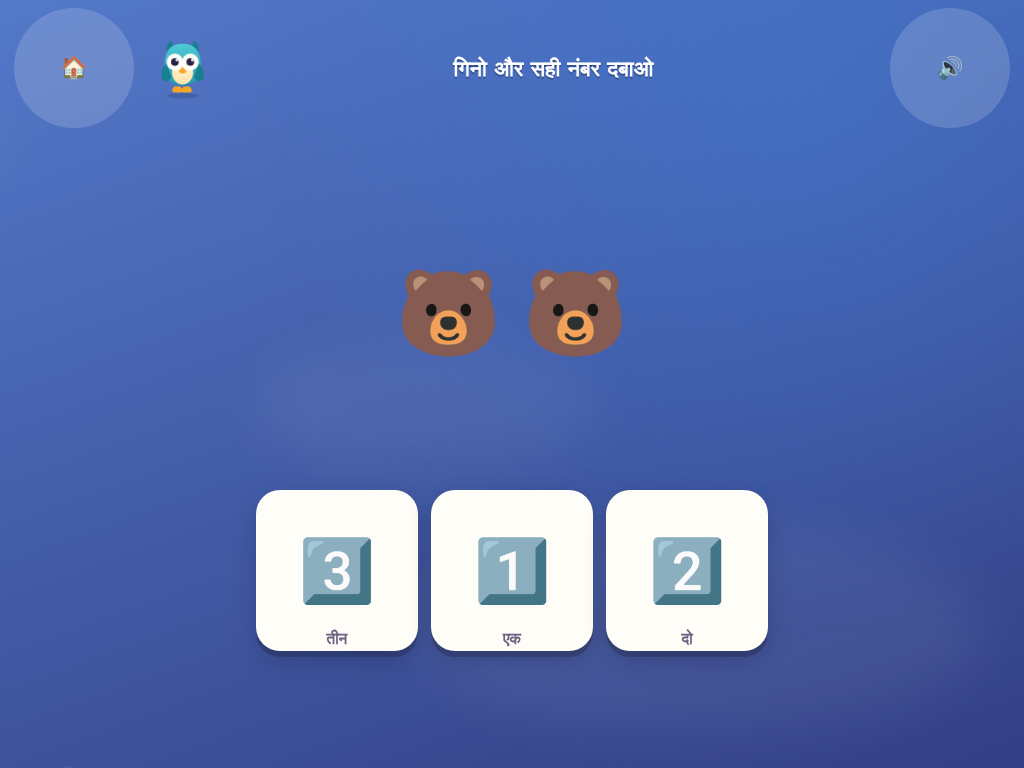
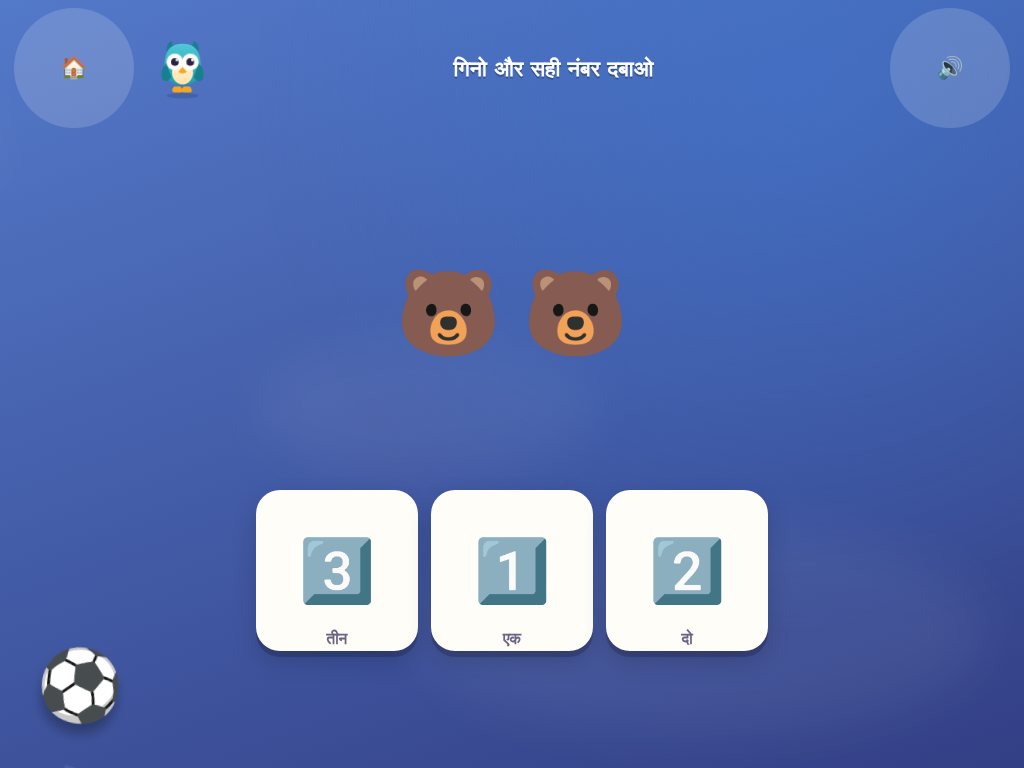
Gullu talks while the tablet speaks, and plays football
audio.js now announces when speech starts and stops — counted, not
flagged, since a prompt and a praise line can overlap — and the
mascot subscribes: beak moving and a small nod for exactly as long
as the tablet is talking, layered over whatever mood he is in. A
safety timeout ends it even on engines that never fire onend, so
a beak can never be left flapping at nothing.

A football sits in the empty part of the play field. It is a toy,
not a control of the puzzle: a kick is never counted as a mistake
(verified: mistakes stay at zero), Gullu cheers when the child
kicks it, and after the ball sits untouched for a while it bounces
as though he kicked it and he hops. It measures the field and takes
the first corner that overlaps nothing, or hides itself when every
corner is taken — better absent than on top of a card. Checked on
the twelve busiest layouts: zero overlap everywhere it shows, and
hidden on the twelve-card memory board and spot-the-difference.

Claude-Session: https://claude.ai/code/session_012WrVrUWsRAkZV34aQr8EfW

Changed region(s): [[0.0312, 0.8438, 0.125, 0.9688]]

diff --git a/js/core/toy.js b/js/core/toy.js
@@ -1,0 +1,104 @@
+/* ============================================================
+   toy.js — a football in the empty part of the screen.
+
+   Not part of any puzzle: tapping it just kicks it, and that is
+   never counted as a mistake. It lives only where there is genuinely
+   room — it measures the play field and hides itself if every corner
+   is taken — so it can never sit on top of a card or a button.
+
+   Gullu plays too. Every so often, if the child leaves the ball
+   alone, it bounces as though he kicked it and he hops with delight;
+   and when the child kicks it, he cheers. A game the two of them
+   share in the margins, while the real puzzle waits in the middle.
+   ============================================================ */
+
+import { el } from './ui.js';
+import { sfx } from './audio.js';
+import { getSetting } from './state.js';
+
+/** Things the ball must never overlap. */
+const OCCUPIED = '.tile, .btn, .bin, .slot, .count-item, canvas, .grid, .answer-row, .count-strip, .big-emoji';
+
+/**
+ * Put a football in the field.
+ *
+ *   field   the engine's play field (position: relative)
+ *   after   the engine's cancellable timer, so nothing outlives the level
+ *   onKick  called whenever the ball is kicked, by child or by Gullu
+ *
+ * Returns a teardown.
+ */
+export function createFootball({ field, after, onKick }) {
+  const ball = el('button.toy-ball', {
+    type: 'button',
+    'aria-label': 'football',
+    onclick: () => kick(true),
+  }, '⚽');
+  field.appendChild(ball);
+
+  let kicking = false;
+  let quietTimer = null;
+
+  function kick(byChild) {
+    if (kicking || ball.hidden) return;
+    kicking = true;
+    ball.classList.remove('toy-ball--kick');
+    void ball.offsetWidth;                    // restart the animation
+    ball.classList.add('toy-ball--kick');
+    sfx('kick');
+    onKick?.(byChild);
+    after(950, () => { ball.classList.remove('toy-ball--kick'); kicking = false; });
+    scheduleGullu();
+  }
+
+  /* Gullu's turn: a kick of his own after the ball sits untouched. */
+  function scheduleGullu() {
+    clearTimeout(quietTimer);
+    if (!getSetting('motion')) return;
+    quietTimer = after(9000 + Math.random() * 5000, () => kick(false));
+  }
+
+  /* ---------- placement: only where nothing else is ---------- */
+
+  function overlapsAnything(r) {
+    for (const n of field.querySelectorAll(OCCUPIED)) {
+      if (n === ball) continue;
+      const b = n.getBoundingClientRect();
+      if (b.width === 0 && b.height === 0) continue;
+      const ox = Math.min(r.right, b.right) - Math.max(r.left, b.left);
+      const oy = Math.min(r.bottom, b.bottom) - Math.max(r.top, b.top);
+      if (ox > 4 && oy > 4) return true;
+    }
+    return false;
+  }
+
+  const CORNERS = [
+    { left: '2%',  bottom: '2%' },
+    { right: '2%', bottom: '2%' },
+    { right: '2%', top: '2%' },
+    { left: '2%',  top: '2%' },
+  ];
+
+  function place() {
+    for (const c of CORNERS) {
+      ball.hidden = false;
+      ball.style.left = ball.style.right = ball.style.top = ball.style.bottom = '';
+      Object.assign(ball.style, c);
+      const r = ball.getBoundingClientRect();
+      const inside = r.left >= 0 && r.top >= 0 && r.right <= innerWidth && r.bottom <= innerHeight;
+      if (inside && !overlapsAnything(r)) return;
+    }
+    ball.hidden = true;                       // no room: better absent than in the way
+  }
+
+  const ro = new ResizeObserver(() => place());
+  ro.observe(field);
+  requestAnimationFrame(place);
+  scheduleGullu();
+
+  return () => {
+    ro.disconnect();
+    clearTimeout(quietTimer);
+    ball.remove();
+  };
+}

diff --git a/js/core/audio.js b/js/core/audio.js
@@ -145,6 +145,10 @@ const SFX = {
   /** Counting cadence — pitch rises with each item counted. */
   count:    (i = 0) => note(hz(67 + Math.min(i, 10)), 0, 0.12, { type: 'triangle', gain: 0.32 }),
 
+  /** Kicking the football: a short thump with a little air in it. */
+  kick:     () => { note(hz(50), 0, 0.16, { type: 'sine', gain: 0.5, glideTo: hz(38) });
+                    noise(0, 0.12, { freq: 380, q: 0.9, gain: 0.22 }); },
+
   /** Unlocking a new world. */
   unlock:   () => { [67, 72, 76, 79, 84].forEach((n, i) =>
                       note(hz(n), i * 0.08, 0.4, { type: 'sine', gain: 0.34 })); },
@@ -182,8 +186,38 @@ function pickVoice() {
       || null;
 }
 
+/* ------------------------------------------------------------
+   Who is listening for speech
+
+   The mascot needs to move its beak while the tablet is talking,
+   but audio.js has no business knowing about a mascot. So it just
+   announces when speech starts and stops, and whoever cares
+   subscribes. Counted rather than a flag, because a prompt and a
+   praise line can overlap.
+   ------------------------------------------------------------ */
+
+const speechListeners = new Set();
+let speaking = 0;
+
+/** Subscribe to speech starting/stopping. Returns an unsubscribe. */
+export function onSpeaking(fn) {
+  speechListeners.add(fn);
+  fn(speaking > 0);
+  return () => speechListeners.delete(fn);
+}
+
+function announce() {
+  const on = speaking > 0;
+  speechListeners.forEach((fn) => { try { fn(on); } catch { /* never fatal */ } });
+}
+
+function speechStarted() { speaking++; announce(); }
+function speechEnded() { speaking = Math.max(0, speaking - 1); announce(); }
+
 function stopSpeech() {
   try { window.speechSynthesis?.cancel(); } catch { /* ignore */ }
+  speaking = 0;
+  announce();
 }
 
 /**
@@ -197,6 +231,8 @@ export function speak(text, { rate, pitch, interrupt = true } = {}) {
     try {
       if (interrupt) stopSpeech();
       const u = new SpeechSynthesisUtterance(String(text));
+      let done = false;
+      const finish = () => { if (done) return; done = true; speechEnded(); resolve(); };
       const v = pickVoice();
       if (v) u.voice = v;
       u.lang = speechLocale();
@@ -205,11 +241,13 @@ export function speak(text, { rate, pitch, interrupt = true } = {}) {
       u.rate = rate ?? (getLang() === 'hi' ? 0.82 : 0.88);
       u.pitch = pitch ?? 1.15;
       u.volume = 1;
-      u.onend = () => resolve();
-      u.onerror = () => resolve();
+      u.onstart = () => speechStarted();
+      u.onend = finish;
+      u.onerror = finish;
       window.speechSynthesis.speak(u);
-      // Safety net: some engines never fire onend for short strings.
-      setTimeout(resolve, 1200 + String(text).length * 90);
+      // Safety net: some engines never fire onend for short strings, and
+      // a beak left flapping forever would be worse than none at all.
+      setTimeout(finish, 1200 + String(text).length * 90);
     } catch {
       resolve();
     }

diff --git a/js/core/engine.js b/js/core/engine.js
@@ -17,7 +17,8 @@ import { el, gameBar, rewardOverlay, confetti, flashOk, flashOops,
          showHint, clearAllHints, delay } from './ui.js';
 import { t, randomPraise, randomOops } from './i18n.js';
 import { createScene } from './scene.js';
-import { createMascot, setMood, flashMood } from './mascot.js';
+import { createMascot, setMood, flashMood, bindSpeech } from './mascot.js';
+import { createFootball } from './toy.js';
 import { speak, sfx, say } from './audio.js';
 import { noteStruggle, struggleFor, getSetting } from './state.js';
 
@@ -73,6 +74,7 @@ export class GameEngine {
     this.root.prepend(createScene(this.level.worldId));
     this.mascot = createMascot();
     this.mascot.classList.add('mascot--bar');
+    this.cleanup(bindSpeech(this.mascot));
 
     host.appendChild(this.root);
 
@@ -91,6 +93,14 @@ export class GameEngine {
     // Next to the prompt he is reacting to, and clear of the field.
     chrome.bar.insertBefore(this.mascot, chrome.bar.children[1]);
     this.root.prepend(chrome.bar);
+
+    // A football for the empty part of the screen, which Gullu plays
+    // with too. It places itself only where nothing else is.
+    this.cleanup(createFootball({
+      field: this.field,
+      after: (ms, fn) => this.after(ms, fn),
+      onKick: () => { if (!this.solved) this.cheerUp('happy', 1100); },
+    }));
 
     // Let the field paint before the voice starts, so the child is
     // looking at the puzzle while it is described.

diff --git a/css/games.css b/css/games.css
@@ -260,3 +260,39 @@
 .count-item--static:active { transform: none; }
 .answer-row  { display: flex; gap: var(--gap); flex-wrap: wrap; justify-content: center; }
 .big-emoji   { font-size: clamp(52px, 12vmin, 130px); line-height: 1; }
+
+/* ---------- the football ----------
+   A toy, not a control of the puzzle. It is still a thing a child
+   taps, so it meets the same touch floor as everything else. */
+.toy-ball {
+  position: absolute;
+  z-index: 2;
+  width: var(--touch);
+  height: var(--touch);
+  display: grid;
+  place-items: center;
+  padding: 0;
+  border: none;
+  background: transparent;
+  font: inherit;
+  font-size: clamp(56px, 9vmin, 84px);
+  line-height: 1;
+  cursor: pointer;
+  touch-action: manipulation;
+  filter: drop-shadow(0 10px 6px rgba(0,0,0,.28));
+  animation: ball-idle 2.8s ease-in-out infinite;
+}
+.toy-ball[hidden] { display: none; }
+.toy-ball--kick { animation: ball-kick .95s cubic-bezier(.3, 1.35, .6, 1); }
+
+@keyframes ball-idle { 50% { transform: translateY(-9px) rotate(7deg); } }
+@keyframes ball-kick {
+  0%   { transform: translateY(0) rotate(0); }
+  32%  { transform: translateY(-140px) rotate(210deg) scale(1.08); }
+  68%  { transform: translateY(-18px) rotate(340deg); }
+  82%  { transform: translateY(-42px) rotate(360deg); }
+  100% { transform: translateY(0) rotate(360deg); }
+}
+
+@media (prefers-reduced-motion: reduce) { .toy-ball { animation: none; } }
+body.no-motion .toy-ball { animation: none; }

diff --git a/css/mascot.css b/css/mascot.css
@@ -98,6 +98,22 @@
 @keyframes m-tilt       { 25% { transform: rotate(9deg); } 75% { transform: rotate(-9deg); } }
 @keyframes m-blink-slow { 50% { transform: scaleY(.3); } }
 
+/* ---------------- talking: layered over any mood ----------------
+   Runs only while the tablet is actually speaking, driven by the
+   speech events audio.js announces, so the beak never flaps at
+   nothing. */
+
+.mascot .m-beak { transform-box: fill-box; transform-origin: 50% 0; }
+
+.mascot--talking .m-beak { animation: m-talk .19s ease-in-out infinite alternate; }
+.mascot--talking .m-body { animation: m-nod 1.1s ease-in-out infinite; }
+/* The nod must not fight a mood that already moves the body. */
+.mascot--talking.mascot--think .m-body,
+.mascot--talking.mascot--oops  .m-body { animation: none; }
+
+@keyframes m-talk { from { transform: scaleY(.55); } to { transform: scaleY(1.35) translateY(2px); } }
+@keyframes m-nod  { 50% { transform: translateY(2px) rotate(2deg); } }
+
 /* ---------------- placement ---------------- */
 
 /* In a level the mascot rides in the top bar rather than floating

diff --git a/js/screens/hub.js b/js/screens/hub.js
@@ -13,11 +13,13 @@ import { totalStars, completedCount } from '../core/state.js';
 import { TOTAL_LEVELS } from '../core/catalog.js';
 import { speak } from '../core/audio.js';
 import { createScene } from '../core/scene.js';
-import { createMascot, setMood } from '../core/mascot.js';
+import { createMascot, setMood, bindSpeech } from '../core/mascot.js';
 
 export function hubScreen({ go }) {
   const gullu = createMascot({ size: 150 });
   gullu.classList.add('hub__mascot');
+  // Unsubscribed when the screen is replaced — hub screens are short-lived.
+  const unbind = bindSpeech(gullu);
 
   const screen = el('div.screen.hub.screen--scened', {},
     createScene(),
@@ -40,5 +42,6 @@ export function hubScreen({ go }) {
     setTimeout(() => setMood(gullu, 'idle'), 1800);
     speak(`${t('app.title')}. ${t('app.play')}!`);
   }, 500);
+  screen.addEventListener('DOMNodeRemoved', () => unbind(), { once: true });
   return screen;
 }

diff --git a/js/core/mascot.js b/js/core/mascot.js
@@ -15,6 +15,8 @@
                 because the game never tells a child they failed
    ============================================================ */
 
+import { onSpeaking } from './audio.js';
+
 const MOODS = ['idle', 'think', 'happy', 'cheer', 'oops'];
 
 /**
@@ -109,4 +111,14 @@ export function flashMood(svg, mood, ms = 1400) {
   setMood(svg, mood);
   const id = setTimeout(() => setMood(svg, 'idle'), ms);
   return () => clearTimeout(id);
+}
+
+/**
+ * Make the owl talk whenever the tablet is speaking: beak moving,
+ * a little nod. Layers over the current mood rather than replacing
+ * it, so a happy Gullu praising a child is still visibly happy.
+ * Returns an unsubscribe for the screen's teardown.
+ */
+export function bindSpeech(svg) {
+  return onSpeaking((on) => svg?.classList.toggle('mascot--talking', on));
 }

diff --git a/sw.js b/sw.js
@@ -12,7 +12,7 @@
    still opens instantly and still works with no network at all.
    ============================================================ */
 
-const CACHE = 'dimaag-ka-khel-v3';
+const CACHE = 'dimaag-ka-khel-v4';
 
 const SHELL = [
   './',
@@ -36,6 +36,7 @@ const SHELL = [
   './js/core/engine.js',
   './js/core/mascot.js',
   './js/core/scene.js',
+  './js/core/toy.js',
   './js/core/catalog.js',
   './js/content/packs.js',
   './js/content/worlds.js',

diff --git a/README.md b/README.md
@@ -125,7 +125,8 @@ No framework, no bundler, no dependencies at runtime.
 
 | | |
 |---|---|
-| **Mascot** | Gullu the owl — hand-authored SVG with five CSS moods. No image files, crisp at any size. |
+| **Mascot** | Gullu the owl — hand-authored SVG with five CSS moods, and a beak that moves whenever the tablet is speaking. No image files, crisp at any size. |
+| **Football** | A ball in whatever corner of the play field is empty. Kicking it is never a mistake; Gullu kicks it himself when it sits idle and cheers when the child does. It hides when every corner is taken, so it is never on top of a card. |
 | **Backdrops** | Per-category tint, drifting clouds and floating motifs, all CSS. |
 | **Art** | Emoji and inline SVG. **No artwork files at all** — the only images in the repo are the app icons, and a script generates those. |
 | **Sound** | Synthesised with the Web Audio API. **Zero audio files.** |
@@ -142,7 +143,7 @@ index.html            app shell
 sw.js                 offline cache
 css/                  base tokens, screens, game chrome, mascot, scene
 js/core/              rng, i18n, audio, state, ui, drag, engine, catalog,
-                      mascot, scene
+                      mascot, scene, toy (the football)
 js/content/           packs.js (128 items), worlds.js
 js/games/             20 engines, one file each
 js/screens/           hub, map, level select, settings
